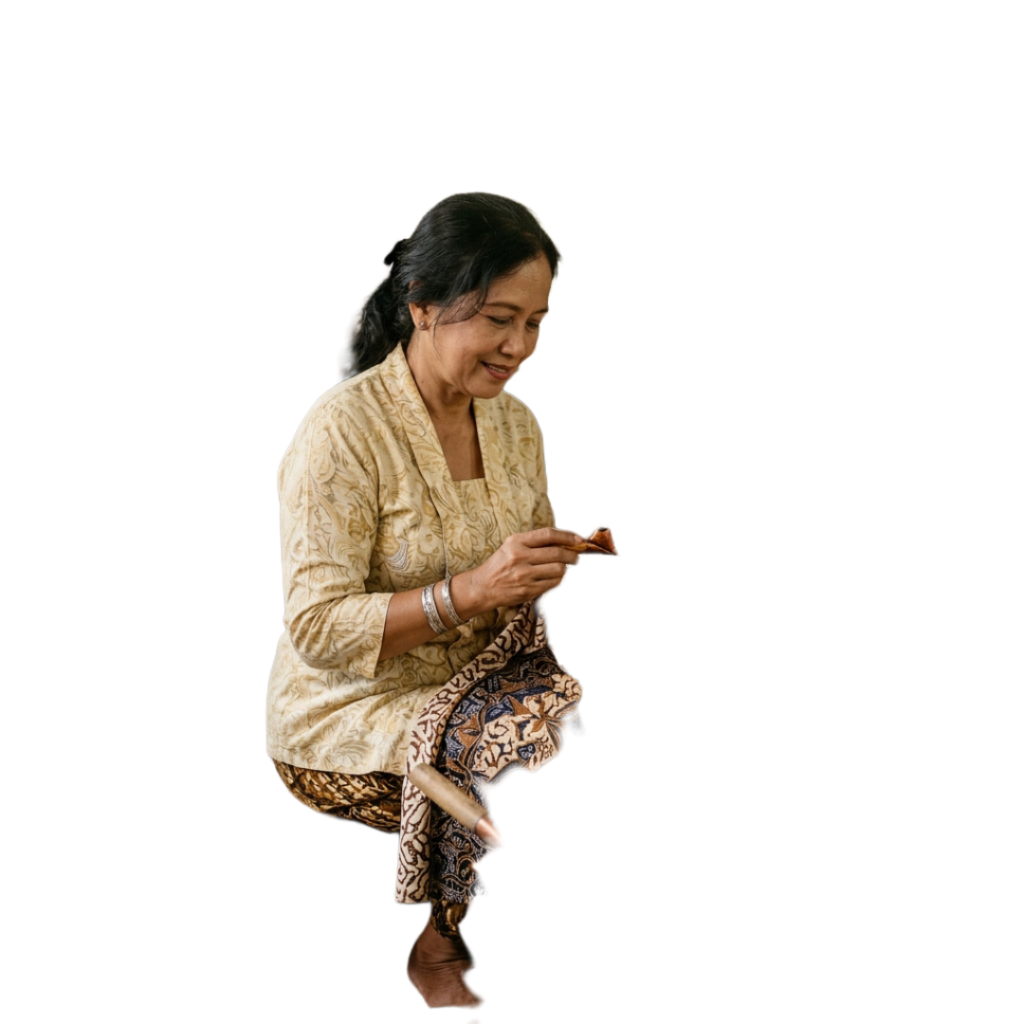
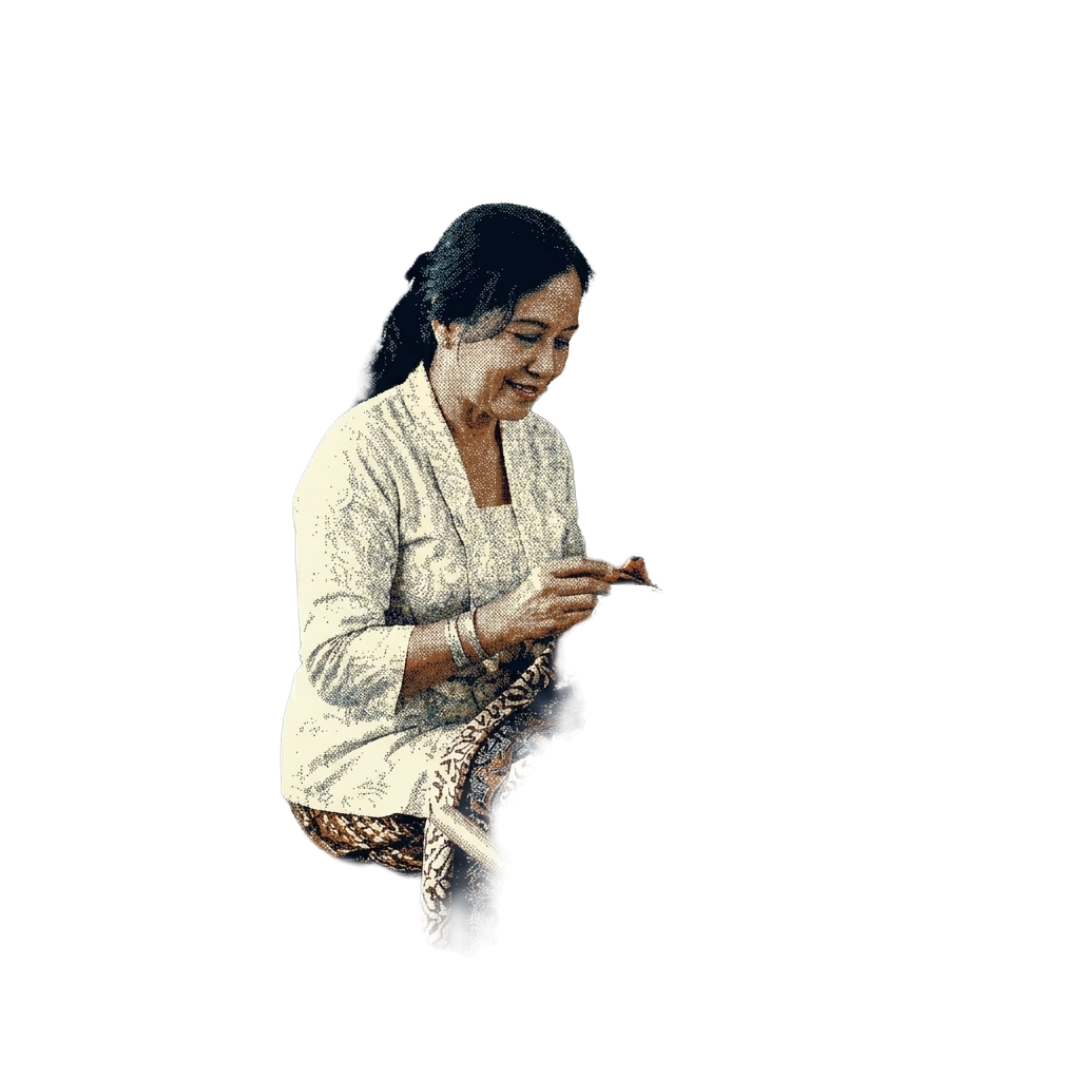
Update frontend with UI fixes, animations, and new backend URL

Changed region(s): [[0.25, 0.1875, 0.5938, 1.0]]

diff --git a/components/scan-cepat-uploader.tsx b/components/scan-cepat-uploader.tsx
@@ -19,10 +19,38 @@ export function ScanCepatUploader() {
   const [imageSrc, setImageSrc] = useState<string | null>(null)
   const inputRef = useRef<HTMLInputElement>(null)
 
-  const startAnalysis = (src: string) => {
+  const startAnalysis = async (src: string) => {
     setImageSrc(src)
     setState('analyzing')
-    setTimeout(() => setState('done'), 2200)
+    
+    try {
+      const response = await fetch(src)
+      const blob = await response.blob()
+      
+      const formData = new FormData()
+      formData.append('image', blob, 'image.jpg')
+      
+      const API_URL = process.env.NEXT_PUBLIC_API_URL || 'http://localhost:3001'
+      
+      const res = await fetch(`${API_URL}/api/classify`, {
+        method: 'POST',
+        body: formData
+      })
+      
+      if (!res.ok) {
+        throw new Error('API Error')
+      }
+      
+      const result = await res.json()
+      console.log('Classification Result:', result)
+      
+      // Update with real results if available, else fallback to demo
+      setState('done')
+    } catch (err) {
+      console.error('Failed to classify image:', err)
+      // Fallback to demo mode for testing UI
+      setTimeout(() => setState('done'), 1500)
+    }
   }
 
   const handleFile = (file: File | undefined) => {

diff --git a/components/benchmark-chart.tsx b/components/benchmark-chart.tsx
@@ -1,10 +1,14 @@
 'use client'
 
 import Link from 'next/link'
-import { motion } from 'framer-motion'
+import { motion, useInView } from 'framer-motion'
+import { useRef } from 'react'
 import { ScrollReveal } from '@/components/scroll-reveal'
 
 export function BenchmarkChart() {
+  const containerRef = useRef(null)
+  const isInView = useInView(containerRef, { once: true, margin: "-10%" })
+
   const data = [
     { name: 'MobileNetV3', role: 'Scan Cepat', fps: 92, accuracy: 94.8 },
     { name: 'YOLOv8', role: 'Multi-Motif', fps: 45, accuracy: 91.5 },
@@ -18,40 +22,28 @@ export function BenchmarkChart() {
     return (
       <div className="flex flex-col gap-[2px]">
         {[0, 1, 2].map((row) => (
-          <motion.div 
-            key={row} 
-            className="flex gap-[2px]"
-            initial="hidden"
-            whileInView="visible"
-            viewport={{ once: true, margin: "-10%" }}
-            variants={{
-              visible: { transition: { staggerChildren: 0.015, delayChildren: row * 0.1 } }
-            }}
-          >
+          <div key={row} className="flex gap-[2px]">
             {Array.from({ length: blockCount }).map((_, i) => {
               const colors = ['bg-foreground', 'bg-foreground', 'bg-foreground', 'bg-background', 'bg-white'];
               const offset = isAccuracy ? 10 : 0;
               const hash = Math.floor(Math.abs(Math.sin(i * 12.9898 + row * 78.233 + offset) * 43758.5453));
               const blockColor = colors[hash % colors.length];
               return (
-                <motion.div 
+                <div 
                   key={i} 
-                  variants={{
-                    hidden: { opacity: 0, scale: 0.2 },
-                    visible: { opacity: 1, scale: 1 }
-                  }}
-                  className={`w-full aspect-square rounded-[1px] ${i < filled ? blockColor : 'bg-foreground/15'}`} 
+                  className={`w-full aspect-square rounded-[1px] ${i < filled ? blockColor : 'bg-foreground/15'} ${isInView ? 'animate-pop-in' : 'opacity-0'}`} 
+                  style={{ animationDelay: `${(row * 0.1) + (i * 0.015)}s` }}
                 />
               )
             })}
-          </motion.div>
+          </div>
         ))}
       </div>
     )
   }
 
   return (
-    <section className="bg-transparent py-10 pb-20 md:pb-28">
+    <section ref={containerRef} className="bg-transparent py-10 pb-20 md:pb-28">
       <div className="mx-auto max-w-4xl px-5 md:px-8">
         <ScrollReveal direction="up">
           <div className="relative rounded-3xl bg-[#c29623]/25 border border-[#c29623]/30 shadow-sm overflow-hidden">

diff --git a/components/multi-motif-detector.tsx b/components/multi-motif-detector.tsx
@@ -64,7 +64,7 @@ export function MultiMotifDetector({ onFallback }: { onFallback?: () => void }) 
     }
   }
 
-  const captureAndShowDetails = () => {
+  const captureAndShowDetails = async () => {
     if (!videoRef.current || !canvasRef.current) return
     const video = videoRef.current
     const canvas = canvasRef.current
@@ -79,7 +79,31 @@ export function MultiMotifDetector({ onFallback }: { onFallback?: () => void }) 
       const dataUrl = canvas.toDataURL('image/png')
       stopCamera()
       setImageSrc(dataUrl)
-      setState('done')
+      setState('analyzing')
+      
+      try {
+        const response = await fetch(dataUrl)
+        const blob = await response.blob()
+        
+        const formData = new FormData()
+        formData.append('image', blob, 'capture.png')
+        
+        const API_URL = process.env.NEXT_PUBLIC_API_URL || 'http://localhost:3001'
+        const res = await fetch(`${API_URL}/api/detect`, {
+          method: 'POST',
+          body: formData
+        })
+        
+        if (!res.ok) throw new Error('API Error')
+        
+        const result = await res.json()
+        console.log('Detection Result:', result)
+        
+        setState('done')
+      } catch (error) {
+        console.error('Failed to detect motifs:', error)
+        setState('done') // Fallback to demo mode
+      }
     }
   }
 

diff --git a/components/wastra-studio-generator.tsx b/components/wastra-studio-generator.tsx
@@ -1,6 +1,7 @@
 'use client'
 
 import { useState, useEffect } from 'react'
+import { motion } from 'framer-motion'
 import { Loader2, RefreshCw } from 'lucide-react'
 
 type StudioState = 'idle' | 'generating' | 'done'
@@ -43,9 +44,27 @@ export function WastraStudioGenerator({ externalPrompt, trigger }: WastraStudioG
     <div className="mx-auto w-full max-w-2xl">
       {state === 'idle' && (
         <div className="flex flex-col items-center justify-center p-10 text-center opacity-70">
-          <p className="text-sm font-medium text-muted-foreground">
-            Ketik deskripsi batik di bawah, lalu tekan Enter untuk mulai berkreasi.
-          </p>
+          <motion.p 
+            className="text-sm font-medium text-muted-foreground"
+            variants={{
+              hidden: { opacity: 1 },
+              visible: { transition: { staggerChildren: 0.03 } }
+            }}
+            initial="hidden"
+            animate="visible"
+          >
+            {"Ketik deskripsi batik di bawah, lalu tekan Enter untuk mulai berkreasi.".split("").map((char, index) => (
+              <motion.span
+                key={index}
+                variants={{
+                  hidden: { opacity: 0, y: 2 },
+                  visible: { opacity: 1, y: 0 }
+                }}
+              >
+                {char}
+              </motion.span>
+            ))}
+          </motion.p>
         </div>
       )}
 

diff --git a/app/globals.css b/app/globals.css
@@ -150,3 +150,19 @@
   opacity: 0;
   animation: elegant-reveal 2s cubic-bezier(0.22, 1, 0.36, 1) forwards;
 }
+
+@keyframes pop-in {
+  0% {
+    opacity: 0;
+    transform: scale(0.2);
+  }
+  100% {
+    opacity: 1;
+    transform: scale(1);
+  }
+}
+
+.animate-pop-in {
+  opacity: 0;
+  animation: pop-in 0.4s cubic-bezier(0.16, 1, 0.3, 1) forwards;
+}

diff --git a/components/unified-ai-workspace.tsx b/components/unified-ai-workspace.tsx
@@ -85,7 +85,7 @@ export function UnifiedAiWorkspace({
     <div className="relative flex h-full w-full flex-col items-center pt-24 pb-12">
       {/* Floating Popup (Toast) */}
       {showPopup && (
-        <div className="fixed top-24 left-1/2 z-50 w-[90%] max-w-sm -translate-x-1/2 md:top-auto md:bottom-6 md:left-auto md:right-6 md:translate-x-0 rounded-2xl border border-border bg-card/95 p-4 shadow-xl backdrop-blur-xl animate-in fade-in slide-in-from-top-4 md:slide-in-from-bottom-4 duration-500">
+        <div className="fixed top-auto bottom-36 left-1/2 z-50 w-[90%] max-w-sm -translate-x-1/2 md:bottom-6 md:left-auto md:right-6 md:translate-x-0 rounded-2xl border border-border bg-card/95 p-4 shadow-xl backdrop-blur-xl animate-in fade-in slide-in-from-bottom-4 duration-500">
           <button
             onClick={() => setShowPopup(false)}
             className="absolute right-3 top-3 rounded-full p-1 text-muted-foreground hover:bg-secondary hover:text-foreground transition-colors"